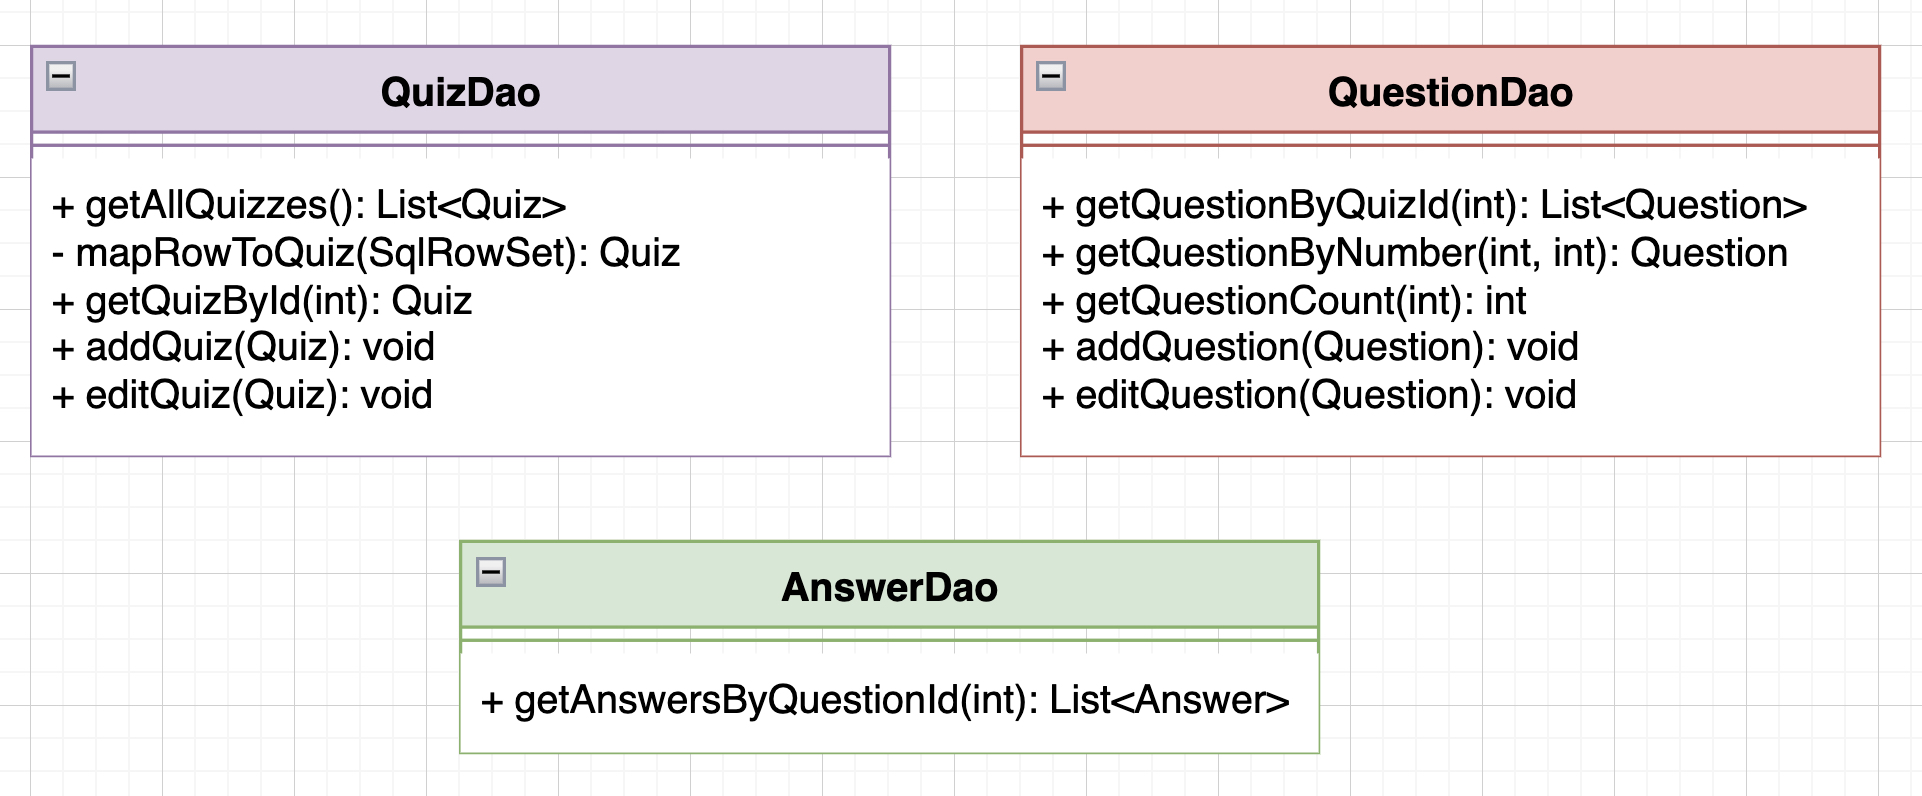
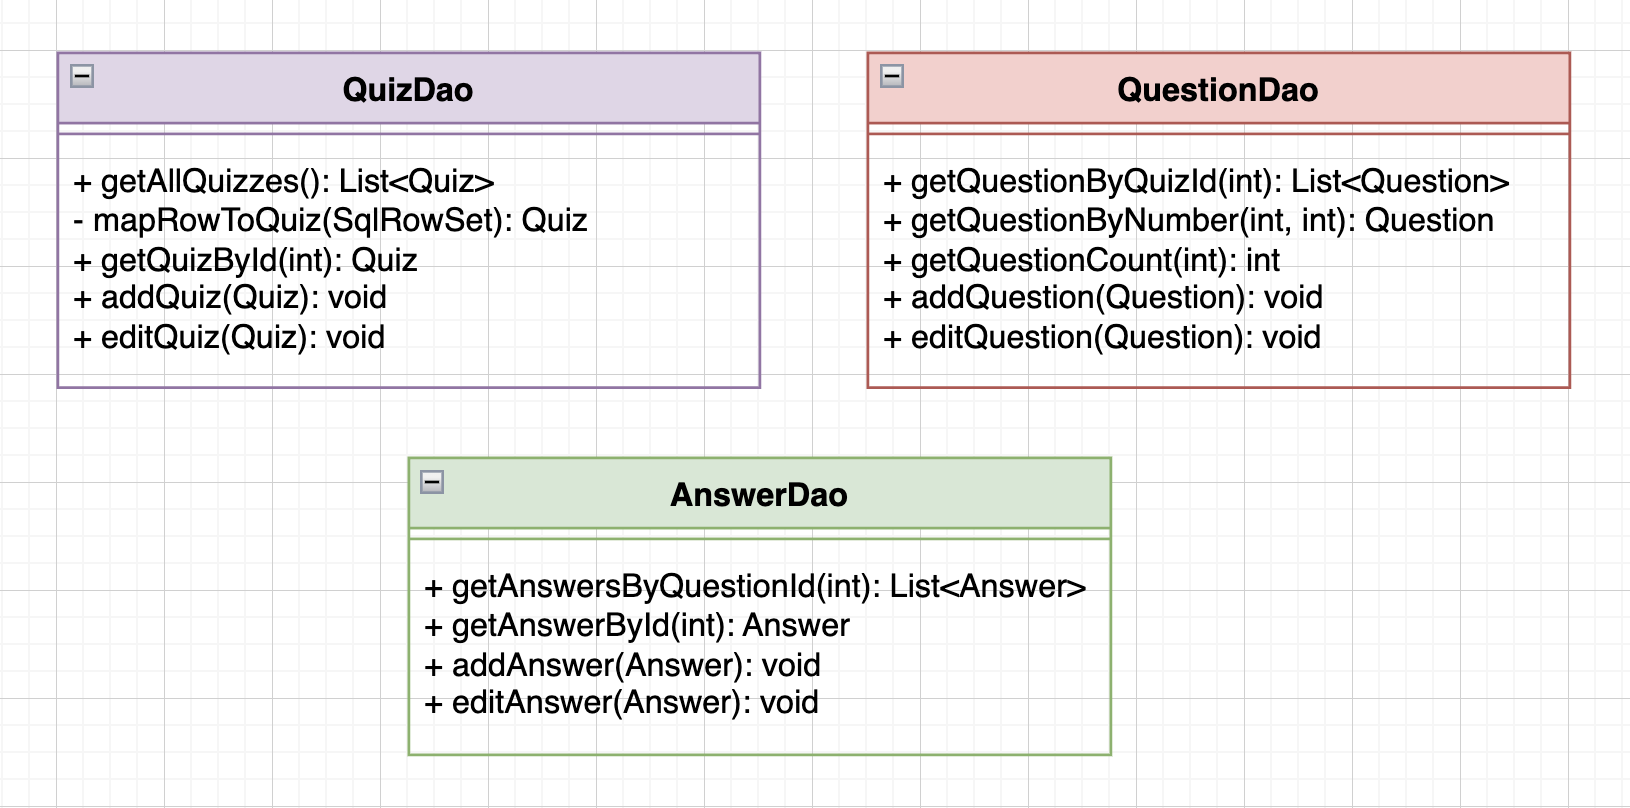
Updated ReadMe

diff --git a/README.md b/README.md
@@ -64,6 +64,14 @@ This pair programming project was developed by Charletta Harris and Jane Huynh.
 * The page also allows users to either add a new question or edit an already existing question. The functionality is
   similar to quiz management’s add or edit features.
 
+### Question Details
+
+<img src="/images-README/question-details.png" width="800">
+
+* The Question Details page displays a list of all the answers associated with a particular question.
+* The page also allows users to either add a new answer or edit an already existing answer. The functionality is
+  similar to quiz management’s add or edit features.
+
 ## Instructions
 
 ### How To Take A Quiz
@@ -106,11 +114,20 @@ This pair programming project was developed by Charletta Harris and Jane Huynh.
     * For any edits, replace the original details pre-filled on the inputs with the new details
     * Press submit
 
-### How to View Answers for a Question
+### How to Create New Answers or Edit An Existing Answer
 
 * Navigate
     * Press Quizzes on the Navigation Bar
+    * Press View Answers Button on the quiz whose answers you want to view
     * In the table, click on the Question Text or press the View Answers button
+* How To Add a New Answer
+    * Press the Add Answer button underneath the Quiz Title Heading
+    * Enter the required information and select the quiz you want the question to be under
+    * Press Submit
+* How To Edit an Existing Answer
+    * Press the Edit Answer Button on the same row as the question you are intending to edit
+    * For any edits, replace the original details pre-filled on the inputs with the new details
+    * Press submit
 
 ## Development Process
 
@@ -182,12 +199,10 @@ While we were working through this part of the project, we encountered three obs
 * Steps:
     * First, we revisited the demo code to review the structure of the ```fetch()``` function.
     * Then, we followed the structure and replacing certain parts to fit our web page’s needs.
-    * Originally we wrote response.text() for the API ```fetch()``` because that was the format we were used to from the
-      previous day’s exercise where we used fetch() with a HTML fragment rather than an API.
-* Solution: An error occurred at this point, because instead of response.text(), we were supposed to write
-  response.json().
-* Note: For each new "feature" of any API call, we would test it out in the browser before continuing on to the next
-  one.
+    * Originally we wrote ```response.text()``` for the API ```fetch()``` because that was the format we were used to from the
+      previous day’s exercise where we used ```fetch()``` with a HTML fragment rather than an API.
+* Solution: An error occurred at this point, because instead of ```response.text()```, we were supposed to write
+  ```response.json()```.
 
 #### Obstacle 2: Going from the last question to the result page fragment
 
@@ -207,21 +222,10 @@ While we were working through this part of the project, we encountered three obs
     * We first inspected the webpage to debug the problem using the browser console and saw that the API ```fetch()``` for the
       first set of answers
       would return undefined for the first question’s url.
-    * The undefined part of the url was the questionId (global variable) which was inserted into the API fetch. After
+    * The undefined part of the url was the questionId (global variable) which was inserted into the API ```fetch()```. After
       some time of going through the bug with debugger several times, we thought that it was probably where we called
       the function to load the answers with the API.
-        * ```loadAnswer()``` was originally placed after calling ```loadQuestion()``` in the event listener for the button click
-          event. We thought that after everything in loadQuestion() was completed, it was logical to call ```loadAnswer()```
-          in the next line of the eventListener. This was not
-          the case.
-        * Since the button click ```eventListener()``` was placed inside the DOM content ```loaded eventListener()```, we thought
-          that it was probably running both functions at the same time. We then moved ```loadAnswer()``` to be inside
-          ```loadQuestion()``` at the end of the code block so that ```loadAnswer()``` did not get called until after everything in
-          ```loadQuestion()``` ran. We wanted to make sure questionId received the correct value and was not undefined.
-        * That did not work as well. We then thought that we should move the function to the nested code block where
-          questionId’s value becomes bound to the variable.
-* Solution: Moving ```loadAnswer()``` did work as the questionId would be set at the same scope as the answer fetch url that
-  needed the questionId.
+* Solution: Moving ```loadAnswer()``` in the question ```fetch()``` request did work as the questionId would be set at the same scope.
 
 ### Challenge 2: How to Set Boolean Value to Insert into the Database
 
@@ -371,13 +375,11 @@ function loadQuestion()
 * Worked more on the aesthetics and design
     * Add more shapes and images to brighten up webpage
     * Make a custom page and not rely on a bootstrap framework
-    * Create a more solid theme and color scheme
-* Add the add/edit answer functionality.
-* Not allow white space as an input on client-side validation (server-side already checks this).
-* Immediate feedback that tells users if their answer was correct or not after submitting
+* Add the delete answer functionality
+* Have a skip question button that allows users to skip a question that will come back later after the last question
+* List all the user's selected answers, questions and its corresponding correct answer in the results page
+* Not allow white space as an input on client-side validation (server-side already checks this)
 * Automatically disable a quiz if users added a question with no answer(s)
-* Have different types of answers included in the quiz (e.g. not just radio buttons but also checkboxes or input text)
-
 
 
 
